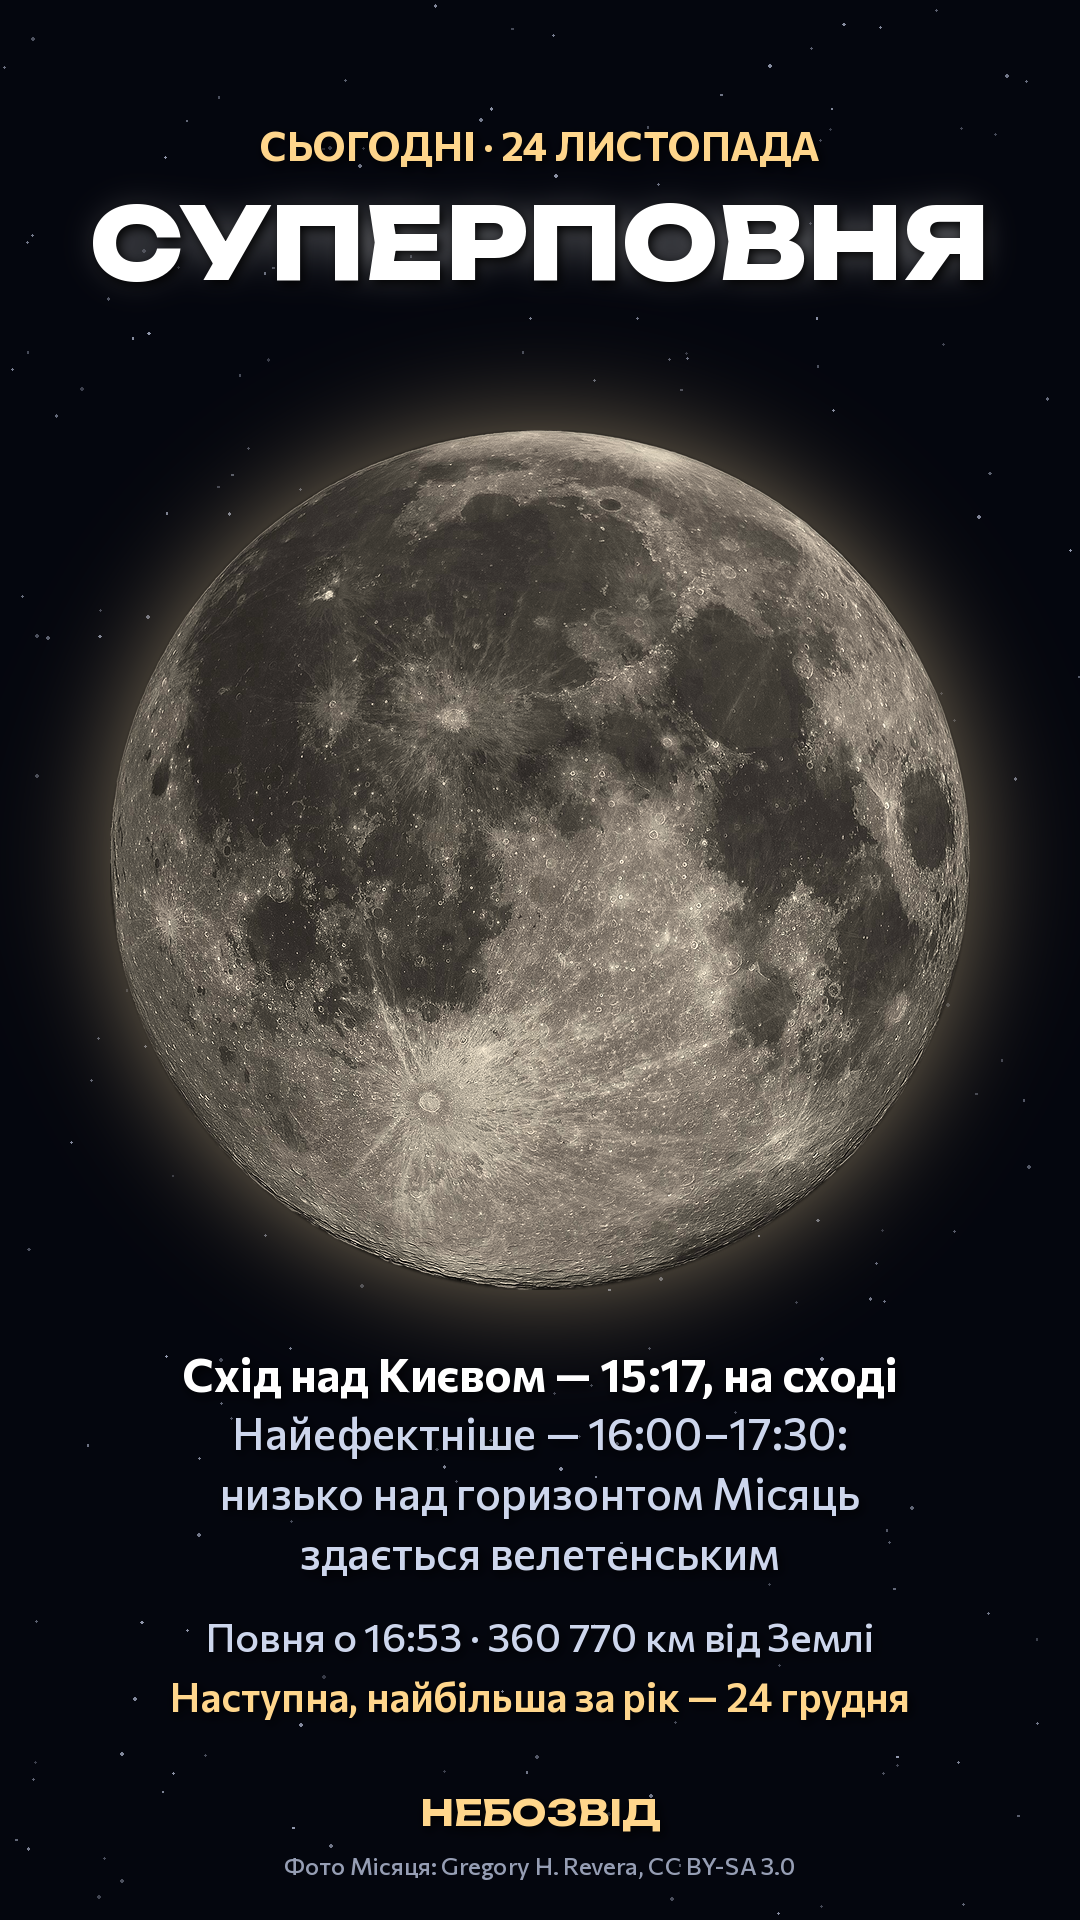
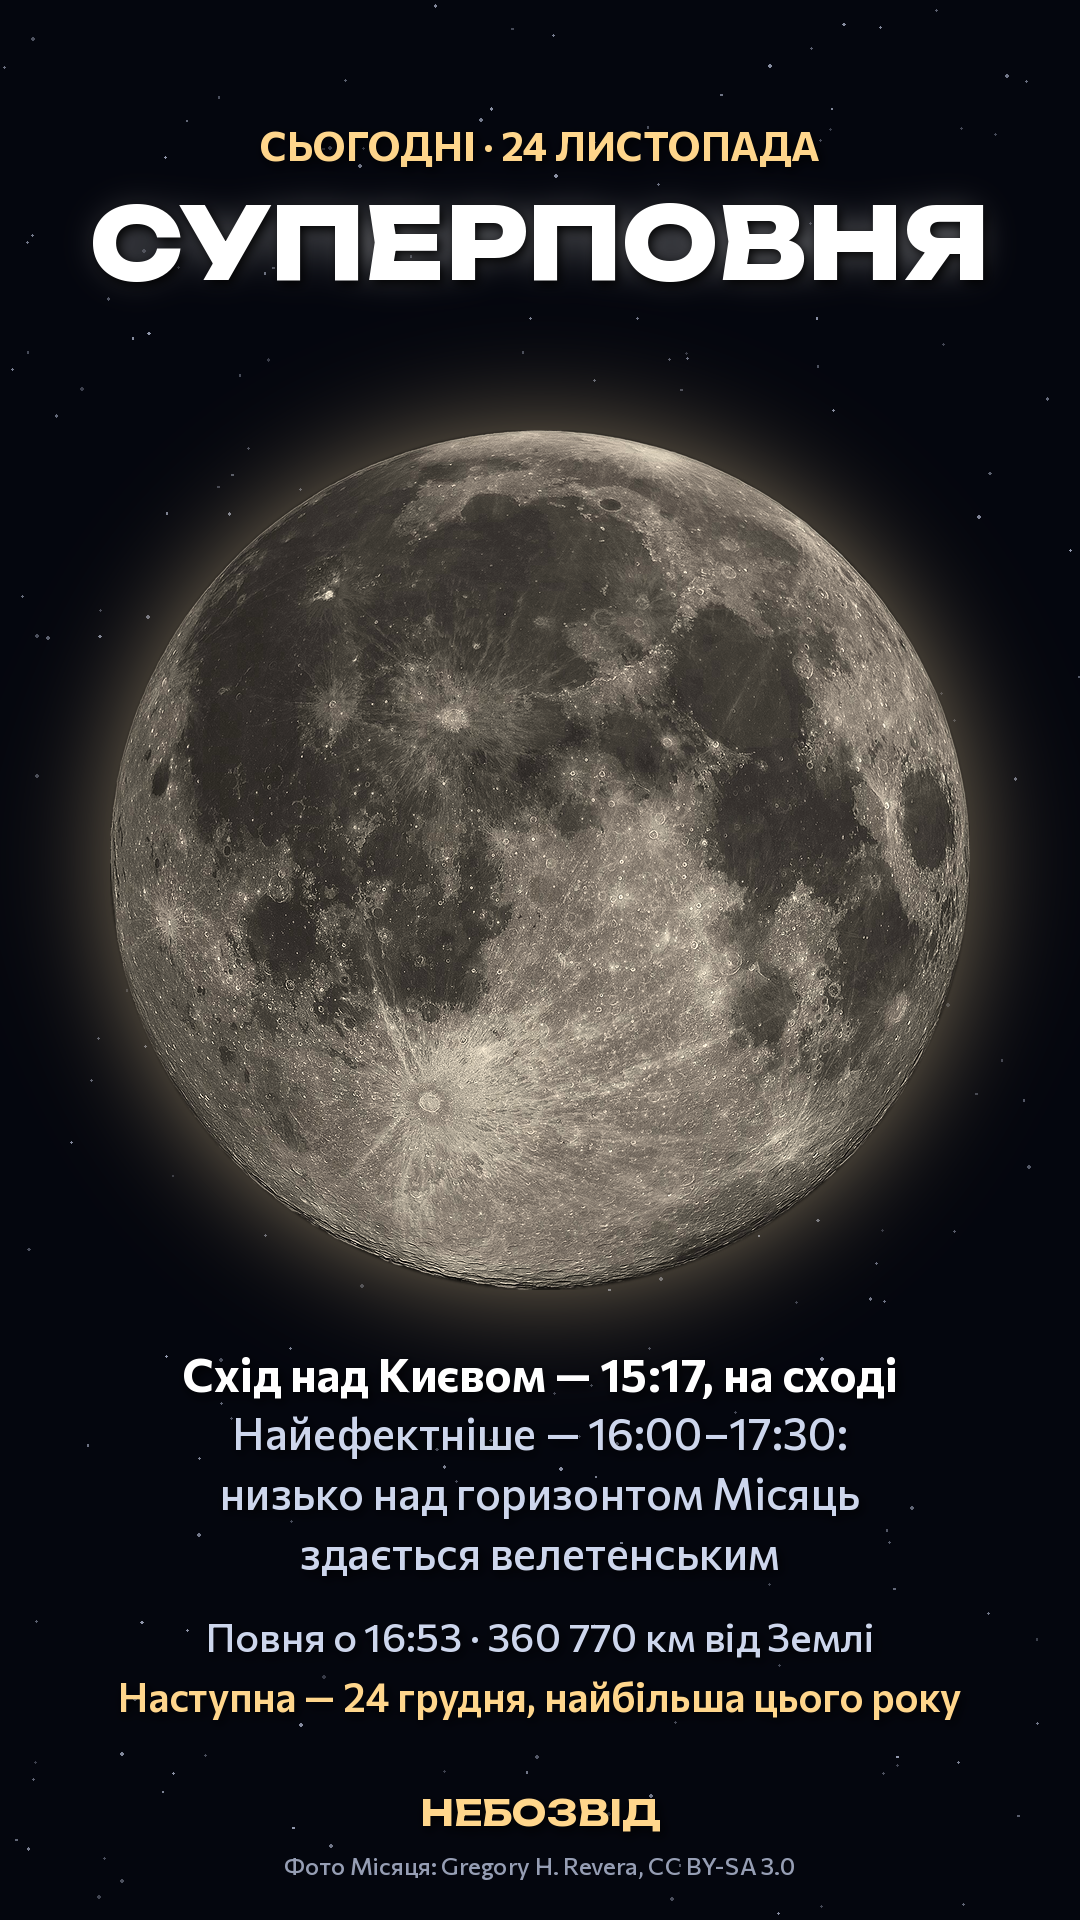
Supermoon story: clearer wording for Dec 24
Claude-Session: https://claude.ai/code/session_01RfjZRKqgj4MPdXTQ7nnTGr

Changed region(s): [[0.0917, 0.875, 0.8861, 0.9062]]

diff --git a/videos/stories/supermoon_story.py b/videos/stories/supermoon_story.py
@@ -58,7 +58,7 @@ rows = [('Схід над Києвом — 15:17, на сході', C(46, 700), 
         ('здається велетенським', C(44, 500), soft),
         None,
         ('Повня о 16:53 · 360 770 км від Землі', C(40, 500), soft),
-        ('Наступна, найбільша за рік — 24 грудня', C(40, 600), gold)]
+        ('Наступна — 24 грудня, найбільша цього року', C(40, 600), gold)]
 y = 1345
 for r in rows:
     if r is None: y += 26; continue
